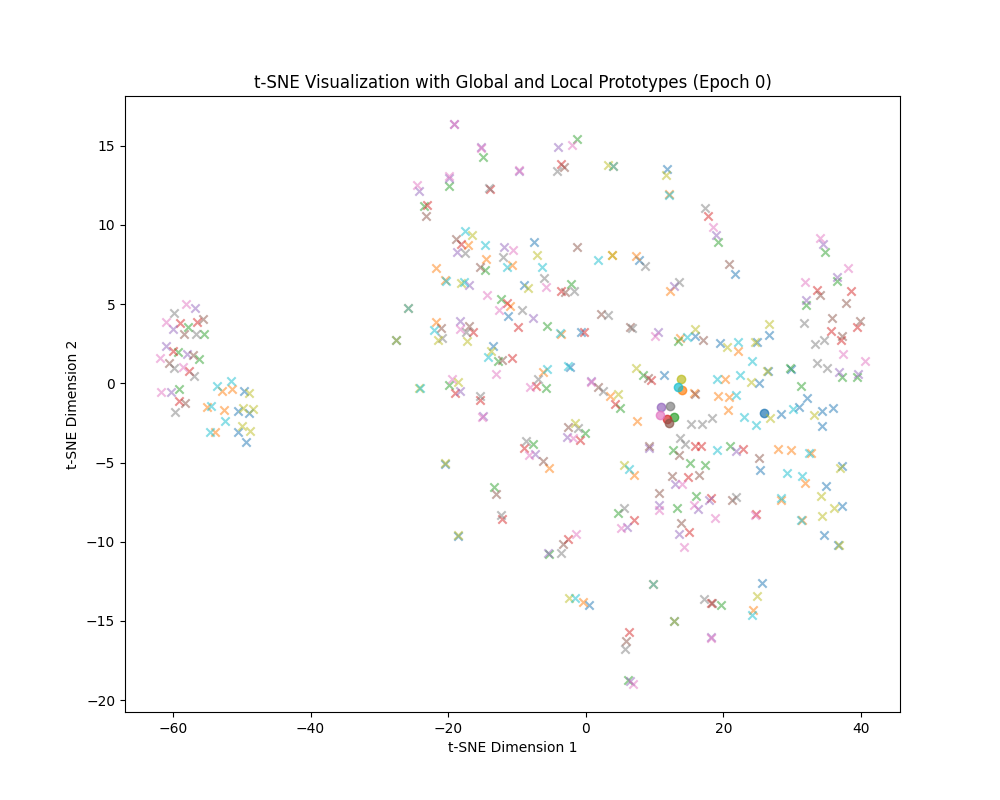
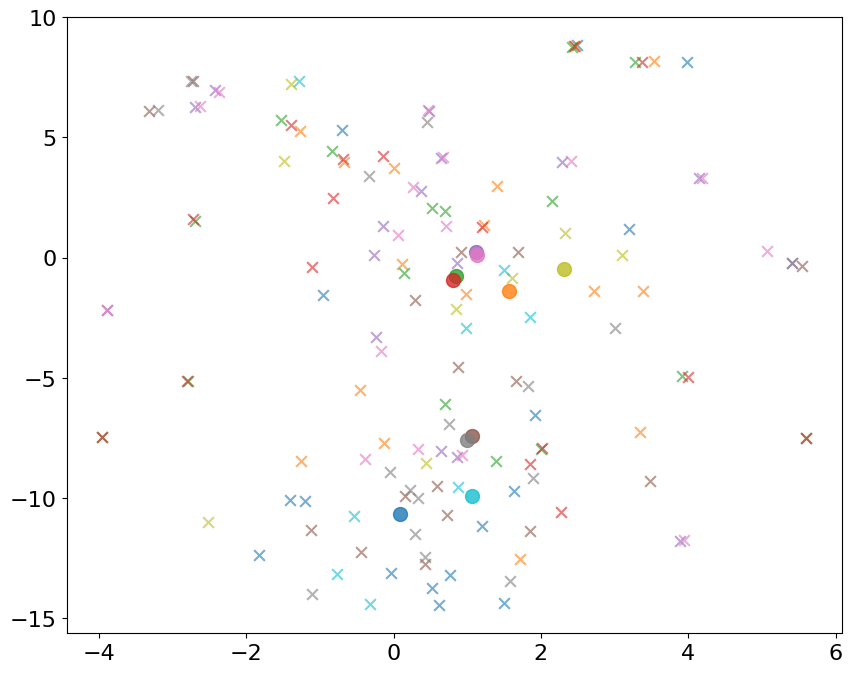
drawGMM plots

diff --git a/system/flcore/servers/serverSAE.py b/system/flcore/servers/serverSAE.py
@@ -149,7 +149,7 @@ class FedSAE(Server):
         # global_protos = self.proto_aggregation_clients()
 
         sampled_features = self.cal_meancov_and_saveglprotos()
-        if self.args.drawGMM == 1 and self.current_epoch == 0:
+        if self.args.drawGMM == 1 and self.current_epoch <= 2:
             origin_features = defaultdict(list)
             # Select a class for visualization
             label_to_vis = 0
@@ -192,7 +192,7 @@ class FedSAE(Server):
             plt.grid(False)
             plt.xticks(fontsize=14)  # 坐标轴刻度字体大小
             plt.yticks(fontsize=14)
-            plt.savefig(f'./gaussian_vs_original_class_{label_to_vis}.png', bbox_inches='tight', dpi=300)
+            plt.savefig(f'./gaussion_tsne/{self.args.dataset}_gaussian_vs_original_class_{label_to_vis}_{self.current_epoch}.png', bbox_inches='tight', dpi=300)
             plt.close()
 
             # Plot original vs sampled features
@@ -213,9 +213,10 @@ class FedSAE(Server):
             plt.grid(False)
             plt.xticks(fontsize=14)  # 坐标轴刻度字体大小
             plt.yticks(fontsize=14)
-            plt.savefig(f'./tsne_class_{label_to_vis}.png', bbox_inches='tight', dpi=300)
+            plt.savefig(f'./gaussion_tsne/{self.args.dataset}_virtual_tsne_class_{label_to_vis}_{self.current_epoch}.png', bbox_inches='tight', dpi=300)
             plt.close()
-            exit()
+            if self.current_epoch == 2:
+                exit()
 
         # sampler = GaussianSampler(self.args)
         # sampled_features = sampler.aggregate_and_sample(self.edges, self.clients)

diff --git a/system/logs/Cifar10/Cifar10_dir_0.3_imbalance_40/NE_10/epochs_5/dim512/diffVFN/vfnplot.py b/system/logs/Cifar10/Cifar10_dir_0.3_imbalance_40/NE_10/epochs_5/dim512/diffVFN/vfnplot.py
@@ -15,7 +15,8 @@ plt.plot(vfns, FedSAE_model_acc, marker='o', markersize=8, label='FedSAE Model A
 # 绘制 FedSAE_prototype_acc 曲线，点加粗
 plt.plot(vfns, FedSAE_prototype_acc, marker='s', markersize=8, label='FedSAE Prototype Accuracy', linewidth=2)
 
-# 添加标题和标签SAE
+# 添加标题和标签SAEe
+
 plt.title('Accuracy vs. vfns (FedSAE)', fontsize=16)
 plt.xlabel('The number of virtual features generated for each class', fontsize=14)
 plt.ylabel('Accuracy(%)', fontsize=14)
